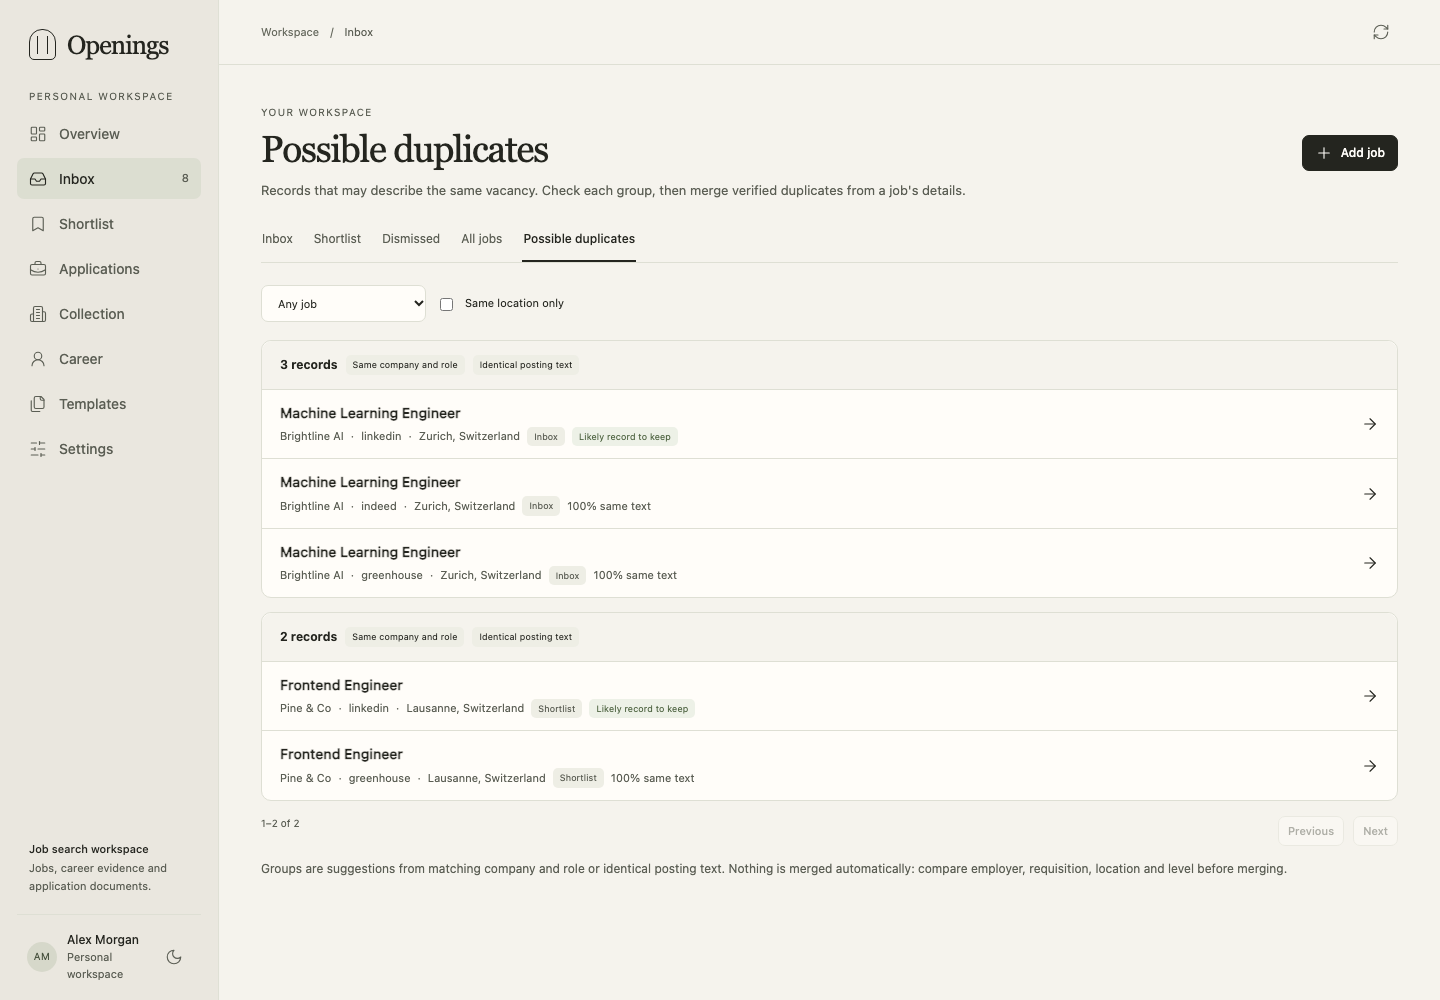
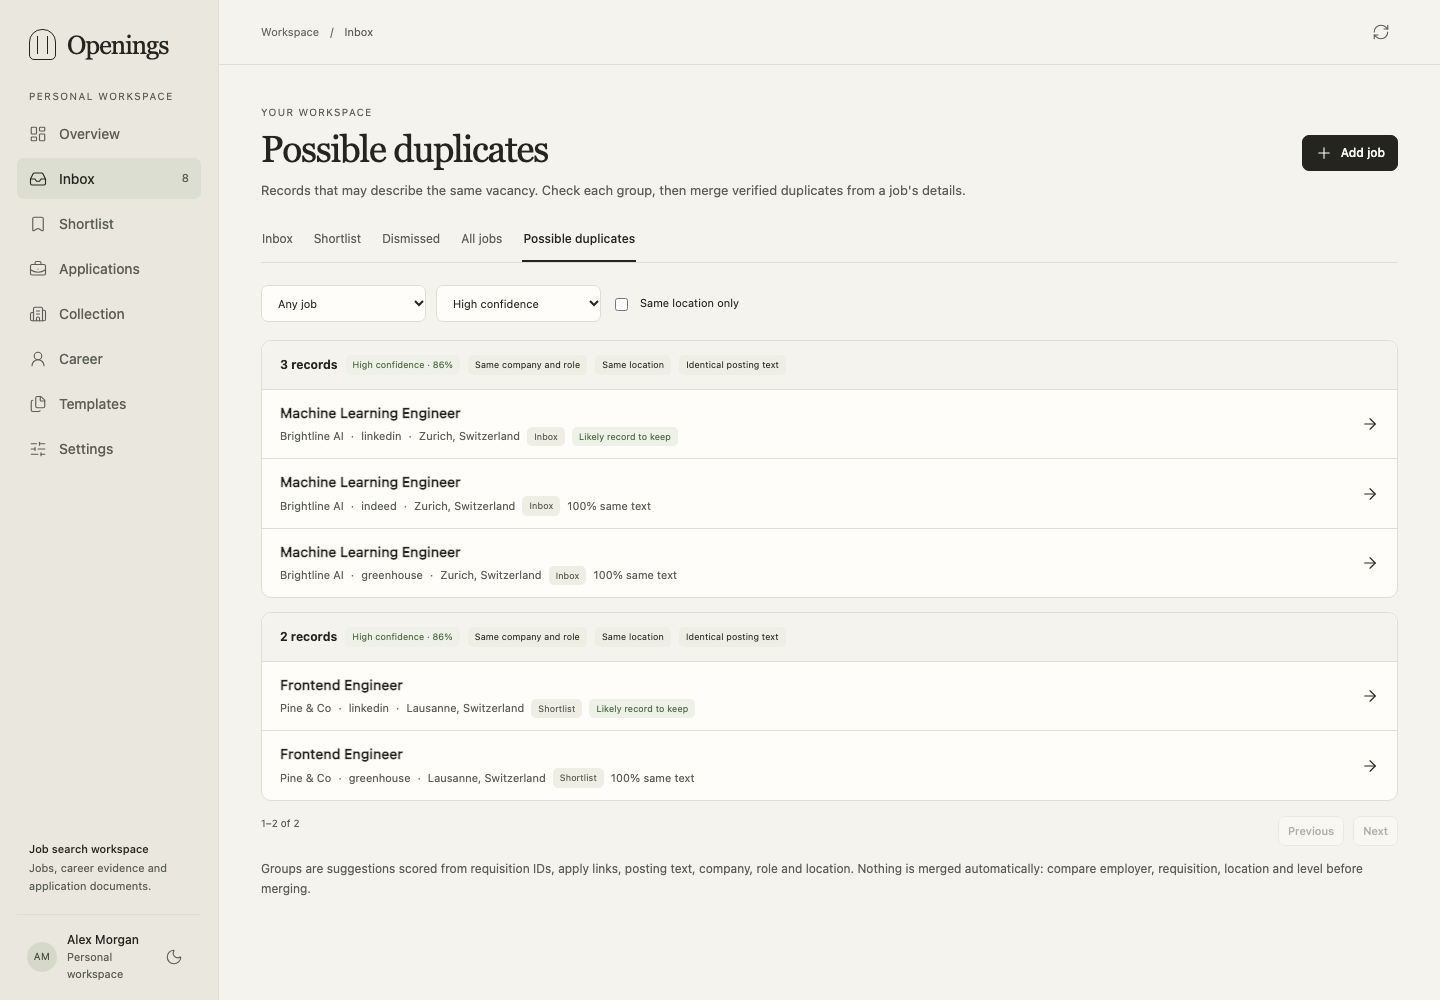
Document duplicate confidence, tiers and signals
Update the vacancy identity reference, the REST and agent guides, the
applications guide and the architecture notes, and regenerate the duplicates
screenshot at high confidence.

diff --git a/skills/openings-workspace/references/job-deduplication.md b/skills/openings-workspace/references/job-deduplication.md
@@ -14,20 +14,48 @@ merge near-duplicates. Two read-only operations find candidates without writing:
   looks up a URL or source key before ingestion. It returns every matching job
   with `matched_by`, triage and all application attempts. `identity_conflict:
   true` means several records already share that identity: merge before ingesting.
-- `jobs_duplicates({value: {queue?, job_id?, match_location?, limit, offset}})` or
-  `GET /jobs/duplicates` returns paginated candidate groups. A group joins jobs
-  with the same normalized company and title (legal suffixes and markers such as
-  `(m/f/d)` ignored; optionally the same location) or identical posting text.
-  Each group lists its `signals`, `identical_postings`, `open_application_ids`,
-  `merge_blocked` and a `reference_id` (open attempt, then any attempt, then
-  saved, then oldest). Items carry triage, attempts, `posting_hash` and advisory
-  `similarity` to the reference. `queue` keeps groups with at least one member in
-  that queue; `job_id` returns the group containing that job.
+- `jobs_duplicates({value: {queue?, job_id?, match_location?, min_confidence?,
+  limit, offset}})` or `GET /jobs/duplicates` returns paginated candidate groups,
+  most confident first. Each group has a `confidence` from 0 to 1, a `tier` and
+  `reasons: {matched, conflicts}`, with `signals` (the matched list),
+  `identical_postings`, `open_application_ids`, `merge_blocked` and a
+  `reference_id` (open attempt, then any attempt, then saved, then oldest). Items
+  carry triage, attempts, `posting_hash`, advisory text `similarity` and their own
+  `confidence` and `reasons` against the reference. `queue` keeps groups with at
+  least one member in that queue; `job_id` returns the group containing that job;
+  `match_location` drops pairs whose locations do not agree.
 
-These are review signals, not identity. The same vacancy often arrives from
-LinkedIn, Indeed, Glassdoor and the employer's ATS with the same text and
-different IDs; a shared template can also produce identical text for different
-requisitions.
+### Confidence and reasons
+
+`min_confidence` is the lowest group confidence returned; a group's confidence is
+its weakest link.
+
+| Tier | `min_confidence` | Typical evidence |
+|---|---|---|
+| `high` | `0.85` | The same apply link or ATS posting ID; a shared requisition ID with the same employer, title or text; the same company, title and location with nearly identical text. |
+| `medium` | `0.5` (default) | Nearly identical text under another company name; similar text; the same company, title and location when one record has no usable text; a record that fits two different vacancies. |
+| `low` | `0` | The same company and title only, or any match contradicted by location, requisition, level or text. |
+
+Matched signals: `apply_target` (the same ATS posting ID or URL, ignoring scheme,
+`www.` and tracking fields), `requisition_id` (an ID in the title or labelled in
+the text, such as "Req ID", "Referenznummer", "Référence" or "Rif."),
+`posting_text`, `near_identical_text`, `similar_text`, `company_title`, `company`
+(legal, corporate and country suffixes ignored: "Example", "Example AG" and
+"Example Switzerland" are one employer), `title`, `similar_title` and `location`.
+
+Conflicts: `requisition_id` and `apply_target` (both records name different IDs),
+`location` (different cities or countries; "Remote", a country alone or a missing
+location is unknown, not a conflict), `seniority`, `posting_text` (clearly
+different text), `posting_date` (published more than 60 days apart: possibly a
+re-opened vacancy, which is a new hiring round and never reaches the high tier)
+and `ambiguous` (the record matches two vacancies that differ from each other,
+for example a copy without a requisition ID next to two requisitions).
+
+These are review signals, not identity, and nothing is merged automatically. A
+high tier is a strong suggestion; an identical advertisement reused for two
+openings in different teams still looks like one vacancy. Company and title alone
+never prove a duplicate. Subsidiary or brand names ("Example" and "Example Labs")
+are joined only by an identifier or by text, usually in the medium tier.
 
 Compare employer and requisition ID first, then the actual apply destination,
 full duties, location, level and posting details. Follow a source link only when
@@ -75,6 +103,8 @@ Do not dismiss a job merely because its Draft has left actionable Shortlist.
 
 Build a stable cohort with `jobs_duplicates` (for example `queue: "shortlist"`
 before preparation, or `queue: "inbox"` before triage) and verify each group.
+Start with `min_confidence: 0.85`, continue with the default, and request `0`
+only for an exhaustive audit: the low tier is mostly different vacancies.
 Build a verified canonical-ID map before mutations. Skip a
 losing record after a confirmed merge and reuse the target's existing Draft or
 completed work. Re-read server state on rerun; notes and retained applications

diff --git a/docs/user/applications.md b/docs/user/applications.md
@@ -159,13 +159,22 @@ with one outcome, reopen Closed attempts to a stage, or delete them. Each attemp
 is checked separately; a failure, such as another open attempt for the same job,
 is listed without blocking the others.
 
-The **Possible duplicates** tab beside Inbox groups records that share a company
-and role or identical posting text, for example one vacancy collected from
-several job boards and the employer's site. It suggests a record to keep and
-never merges automatically. Open a job and expand **Job details, sources &
-maintenance** to see its possible duplicates and merge a verified copy.
+The **Possible duplicates** tab beside Inbox groups records that probably
+describe one vacancy, for example the same posting collected from several job
+boards and the employer's site. Each group shows a confidence and the reasons
+behind it: the same apply link or requisition ID, identical or nearly identical
+text, the same company, role and location, and anything that speaks against it,
+such as a different location, requisition, level or a posting published months
+apart. Company names are compared without legal, corporate and country suffixes.
 
-![Possible duplicates grouping one vacancy collected from three sources and another from two](../images/duplicates.png)
+Choose **High confidence** to see only strong matches, **Medium and high** (the
+default) to add probable ones, or **Every candidate** to include records that
+share only a company and role; most of those are different vacancies. The tab
+suggests a record to keep and never merges automatically. Open a job and expand
+**Job details, sources & maintenance** to see its likely duplicates and merge a
+verified copy.
+
+![Possible duplicates at high confidence: one vacancy collected from three sources and another from two, with the reasons for each group](../images/duplicates.png)
 
 Dismissing a job preserves its applications. Restore it before preparing new
 documents. If you previously dismissed an applied job just to clear Shortlist,

diff --git a/docs/user/api.md b/docs/user/api.md
@@ -142,16 +142,26 @@ Both reads are side-effect free; neither fetches a page nor merges records.
 GET /jobs/resolve?url=https://jobs.example.test/123&source_key=linkedin:42
 GET /jobs/duplicates?queue=shortlist&limit=20&offset=0
 GET /jobs/duplicates?job_id=JOB_ID
+GET /jobs/duplicates?min_confidence=0.85
 ```
 
 `/jobs/resolve` normalizes the URL as ingestion does and returns `items` (job
 summaries with `matched_by`, triage and every attempt in `applications`),
 `identities` and `identity_conflict`. `/jobs/duplicates` returns candidate
-`items` groups with a `total` group count: `job_ids`, `signals`
-(`company_title`, `posting_text`), `identical_postings`, `reference_id`,
-`open_application_ids` and `merge_blocked`, plus per-job `posting_hash` and
-advisory `similarity`. Add `match_location=true` to require the same location.
-Verify a group, then merge with `POST /jobs/{source_id}/merge`.
+`items` groups, most confident first, with a `total` group count: `job_ids`,
+`confidence` (0 to 1), `tier` (`high`, `medium` or `low`), `reasons` (`matched`
+and `conflicts` signal names), `signals` (the matched names), `identical_postings`,
+`reference_id`, `open_application_ids` and `merge_blocked`, plus per-job
+`posting_hash`, advisory `similarity` and the job's own `confidence` and `reasons`
+against the reference record. `min_confidence` (default `0.5`) is the lowest
+group confidence returned: `0.85` keeps the high tier, `0` adds records that
+share only a company and title. The response repeats `min_confidence` and the
+`tiers` thresholds. Add `match_location=true` to require agreeing locations.
+Signals come from requisition IDs, apply links and ATS posting IDs, posting text,
+company, title and location; the
+[vacancy identity reference](../../skills/openings-workspace/references/job-deduplication.md)
+lists them. Verify a group, then merge with `POST /jobs/{source_id}/merge`;
+nothing is merged automatically.
 
 `POST /applications/bulk` closes, reopens or deletes selected attempts:
 

diff --git a/docs/developer/architecture.md b/docs/developer/architecture.md
@@ -20,6 +20,7 @@ flowchart LR
 | Location | Responsibility |
 |---|---|
 | `backend/openings/workspace.py` | Job identities, triage, notes, application attempts and reporting |
+| `backend/openings/duplicates.py`, `duplicate_signals.py` | Read-only duplicate candidates: per-job signals, pair confidence and groups |
 | `backend/openings/career.py` | Profile, detailed evidence, claims, templates and instructions |
 | `backend/openings/documents.py` | Frozen contexts, document revisions and scoped file transfers |
 | `backend/openings/discovery.py` | Typed sources, schedules and queue operations |
@@ -42,7 +43,11 @@ dashboard path, and lists every gap. Read [REST](../user/api.md) and
 
 - **Identity:** normalized URLs and stable external keys resolve through retained
   aliases. Conflicting identities require explicit Merge; title/company similarity
-  alone never merges jobs. Dismissal survives URL changes.
+  alone never merges jobs. Dismissal survives URL changes. Duplicate candidates
+  are a separate, read-only suggestion: deterministic signals (requisition IDs,
+  apply targets, location, posting text, company and title) give each pair a
+  confidence in [0, 1], and nothing is merged or stored. Per-job signals are kept
+  in memory and recomputed only for jobs whose version changed.
 - **Corrections:** source refreshes preserve user edits, triage and application
   attempts.
 - **Lifecycle:** triage (`inbox`/`saved`/`dismissed`) stores interest independently.

diff --git a/docs/user/agents.md b/docs/user/agents.md
@@ -34,7 +34,8 @@ skills: discover the tools/resources and their typed input schemas.
 2. Find or ingest the job with `jobs_search`, `job_get` or `job_ingest`. You can
    add a posting manually without setting up collection. `jobs_resolve` checks a
    URL or source key without ingesting; `jobs_duplicates` lists candidate copies
-   of one vacancy across sources for review before `job_merge`.
+   of one vacancy across sources, with a confidence, tier and reasons, for review
+   before `job_merge` (`min_confidence` defaults to 0.5; 0 lists every candidate).
 3. Inspect `job.application` or use `applications_list` with `value.job_id` to find
    its attempts. Continue the open application, or use `application_create` to
    start Preparing (`draft`) with questions, notes and an idempotency key. Starting removes it from the pending Shortlist queue. A later attempt is possible after the previous one closes.

diff --git a/skills/openings-workspace/references/tool-reference.md b/skills/openings-workspace/references/tool-reference.md
@@ -6,7 +6,8 @@ Step-by-step MCP/REST sequences behind the workflow skills: [Prepare Shortlist](
 
 1. Find and read the job with `jobs_search` and `job_get`. Before ingesting a
    URL, `jobs_resolve` reports any existing record and its attempts without
-   writing; `jobs_duplicates` lists candidate copies of the same vacancy. Its `application`
+   writing; `jobs_duplicates` lists candidate copies of the same vacancy with a
+   `confidence`, `tier` and `reasons` (`min_confidence` defaults to 0.5). A job's `application`
    summary identifies an open attempt or the latest closed one. Use
    `applications_list` with `value.job_id` for the full history. Continue an open
    attempt, or create Draft with `application_create` and an idempotency key.
